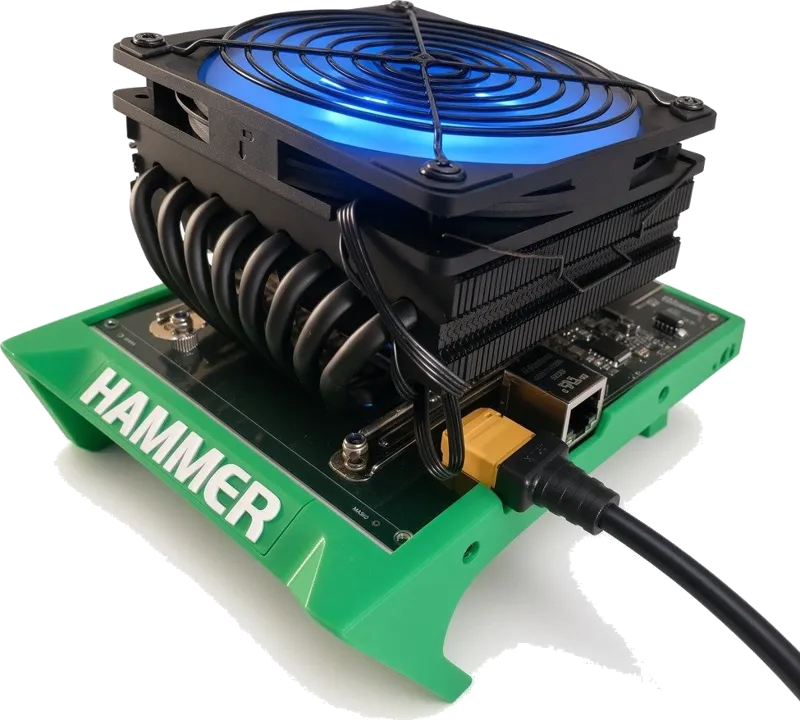
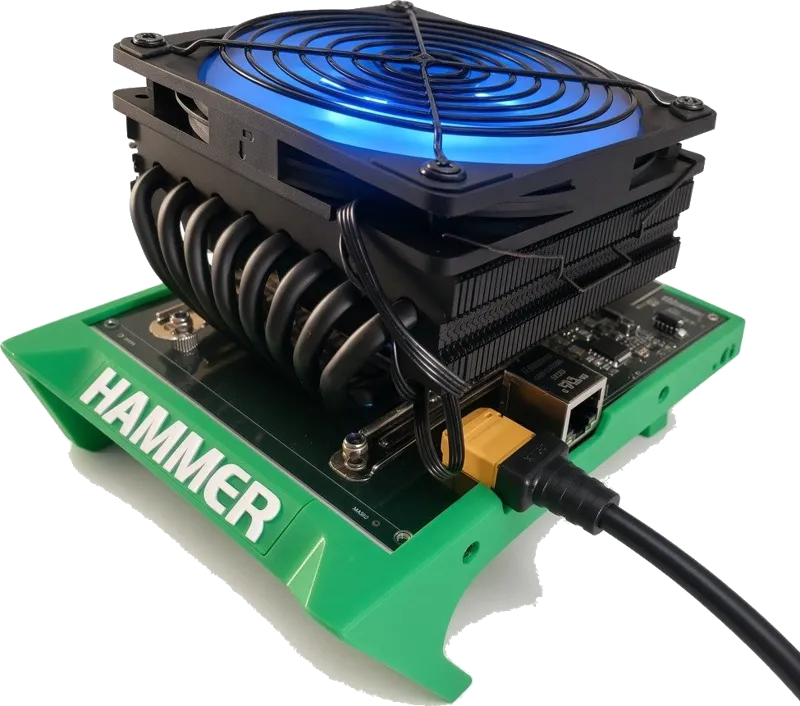
Thor P2 photo: remove leftover floor shadow

diff --git a/build_site.py b/build_site.py
@@ -495,7 +495,7 @@ MODEL_IMG = {
     "bitforge-nano": (800, 797, "BitForge Nano enclosed two-chip Bitcoin miner"),
     "heatbit-bitair": (459, 800, "Heatbit Bitair air purifier with built-in Bitcoin miner"),
     "futurebit-apollo-iii": (800, 761, "FutureBit Apollo III cube home Bitcoin miner"),
-    "hammer-thor-p2": (800, 720, "Hammer Miner Thor P2 desk Bitcoin miner"),
+    "hammer-thor-p2": (800, 706, "Hammer Miner Thor P2 desk Bitcoin miner"),
     "hammer-bc08": (800, 738, "Hammer Miner BC08 desktop Bitcoin miner with touchscreen"),
     "gekko-kbox-22": (800, 457, "GekkoScience KBox 22 all-in-one Bitcoin miner and heater"),
 }

diff --git a/docs/IMAGE_SOURCES.md b/docs/IMAGE_SOURCES.md
@@ -47,7 +47,7 @@ Same rules: the seller's or maker's own image for that exact model from its publ
 | bitforge-nano.webp | BitForge Nano (standard, not Ghost) | DTV Electronics (Store API `images[0].src`; white background removed) | Bitforge Nano Solo Bitcoin Miner | https://dtvelectronics.com/wp-content/uploads/2026/01/Bitforge-Nano.webp |
 | heatbit-bitair.webp | Heatbit Bitair | Altair Technology (product JSON-LD `image[0]`; white background removed) | Heatbit Bitair – 1.2 TH/s Bitcoin Miner & Air Purifier | https://altairtech.io/wp-content/uploads/2026/10/heatbitbitair.jpg |
 | futurebit-apollo-iii.webp | FutureBit Apollo III (rear view, FutureBit logo) | FutureBit (Shopify `products.json`, Standard version image; soft shadow removed) | Apollo III - Standard Version - Miner Only | https://cdn.shopify.com/s/files/1/0006/7528/3059/files/Apollo_III_Rear_II-FIXED_2-Alt._Controller.png?v=1772089505 |
-| hammer-thor-p2.webp | Hammer Thor P2 | Altair Technology (product JSON-LD image "thorp2-no-text"; white background removed) | Thor P2 Bitcoin Miner – 10 TH/s Dual BM1373 ASIC Miner | https://altairtech.io/wp-content/uploads/2026/08/thorp2-no-text.png |
+| hammer-thor-p2.webp | Hammer Thor P2 | Altair Technology (product JSON-LD image "thorp2-no-text"; white background and floor shadow removed) | Thor P2 Bitcoin Miner – 10 TH/s Dual BM1373 ASIC Miner | https://altairtech.io/wp-content/uploads/2026/08/thorp2-no-text.png |
 | hammer-bc08.webp | Hammer BC08 (air-cooled, touchscreen) | Altair Technology (product JSON-LD `image[0]`; white background removed) | Hammer Miner BC08 12TH Home Bitcoin Miner | https://altairtech.io/wp-content/uploads/2026/06/jO8Do.png |
 | gekko-kbox-22.webp | GekkoScience KBox 22 | Altair Technology (product JSON-LD `image[0]`; white background removed) | GekkoScience KBox 22TH All-In-One Bitcoin Miner | https://altairtech.io/wp-content/uploads/2026/06/kbox-front.jpg |
 
